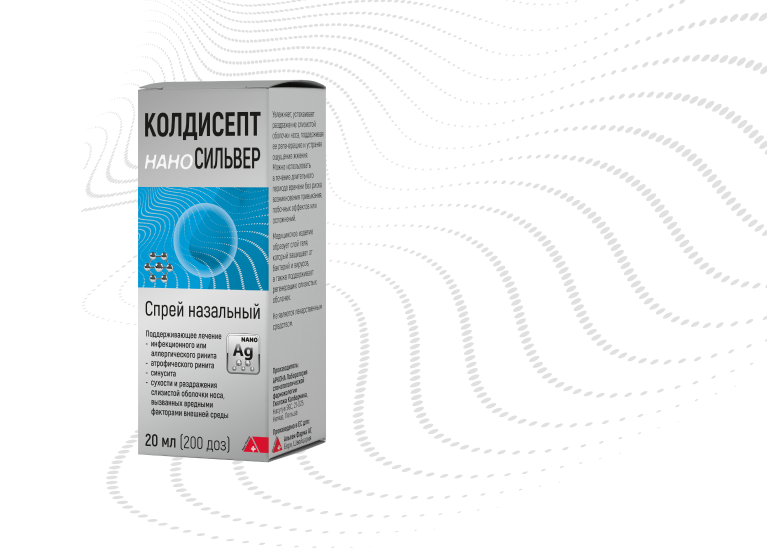
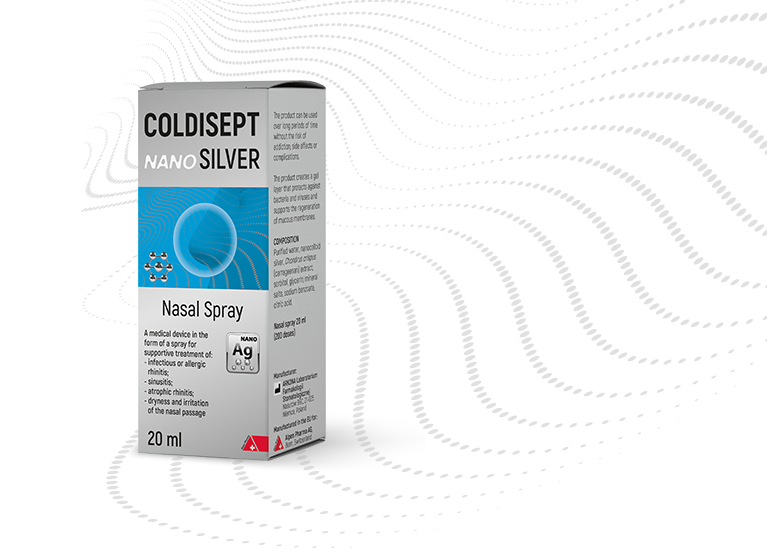
cold

Changed region(s): [[0.1799, 0.1855, 0.4798, 0.8655]]

diff --git a/Coldisept/index.html b/Coldisept/index.html
@@ -159,8 +159,8 @@
             </div>
             <div class="container-3_right-block">
                 <div class="c-compare" style="--value:50%; background-size: contain;">
-                    <img class="c-compare__left" src="./images/photo1.png" style="max-width: 100%; height: auto;" alt="Color" />
-                    <img class="c-compare__right" src="./images/photo2.png"  style="max-width: 100%; height: auto;" alt="B/W" />
+                    <img class="c-compare__left" src="./images/photo1-ru.png" style="max-width: 100%; height: auto;" alt="Color" />
+                    <img class="c-compare__right" src="./images/photo2-ru.png"  style="max-width: 100%; height: auto;" alt="B/W" />
                     <input type="range" class="c-rng c-compare__range" min="0" max="100" value="50" oninput="this.parentNode.style.setProperty('--value', `${this.value}%`)" />
                   </div>
             </div>
@@ -215,7 +215,7 @@
                 <a>Инструкция</a>
             </div>
         </div>
-        <div class="container-5_img-block">
+        <div class="container-5_img-block container-5_img-block-ru">
 
         </div>
     </div>
@@ -271,7 +271,7 @@
                 <a>Инструкция</a>
             </div>
         </div>
-        <div class="container-5_img-block">
+        <div class="container-5_img-block container-5_img-block-ru">
 
         </div>
     </div>
@@ -323,7 +323,7 @@
                 <a>Инструкция</a>
             </div>
         </div>
-        <div class="container-5_img-block">
+        <div class="container-5_img-block container-5_img-block-ru">
 
         </div>
     </div>

diff --git a/Coldisept/css/style.css b/Coldisept/css/style.css
@@ -194,6 +194,10 @@ p {
   background: url(../images/logo.svg)no-repeat center/contain;
 }
 
+.container-1_left-img-en {
+  background: url(../images/logo-en.svg)no-repeat center/contain;
+}
+
 .container-1_left p {
   position: absolute;
   top: 250px;
@@ -480,6 +484,15 @@ p {
     width: 100%;
   height: 550px;
   background: url(../images/pack-with-back.png)no-repeat 20%/contain;
+}
+.container-5_img-block-ru {
+  background: url(../images/pack-with-back-ru.png)no-repeat 20%/contain;
+} 
+.container-5_blue .container-5_img-block-ru {
+  background: url(../images/pack-with-back2-ru.png)no-repeat 20%/contain;
+}
+.container-5_orange .container-5_img-block-ru {
+  background: url(../images/pack-with-back3-ru.png)no-repeat 20%/contain;
 }
 .container-5_blue .container-5_img-block {
   background: url(../images/pack-with-back2.png)no-repeat 20%/contain;
@@ -2888,6 +2901,6 @@ ol {
 }
 .show2 {
   display: block !important;
-  background: url(../images/logo.svg) no-repeat center / contain !important;
+  background: url(../images/logo-en.svg) no-repeat center / contain !important;
   /*transition: 0.5s;*/
 }

diff --git a/Coldisept/index-en.html b/Coldisept/index-en.html
@@ -107,7 +107,7 @@
 
 <div class="container-1">
     <div class="container-1_left">
-        <div class="container-1_left-img"></div>
+        <div class="container-1_left-img container-1_left-img-en"></div>
         <p>
             modern art<br>
         in protection<br>
